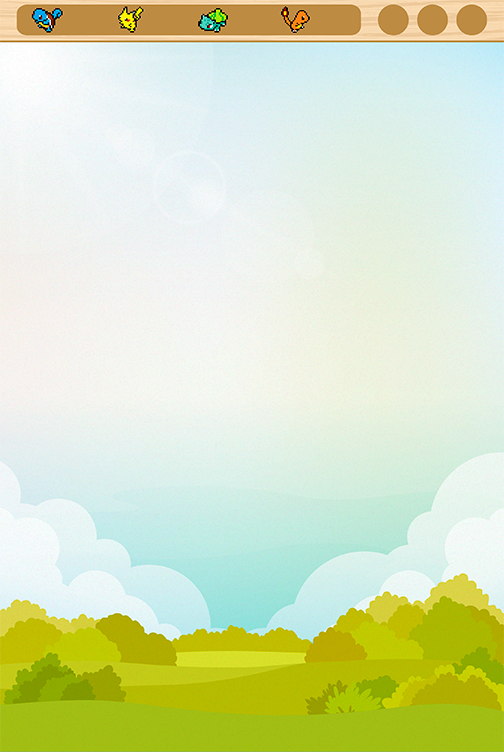
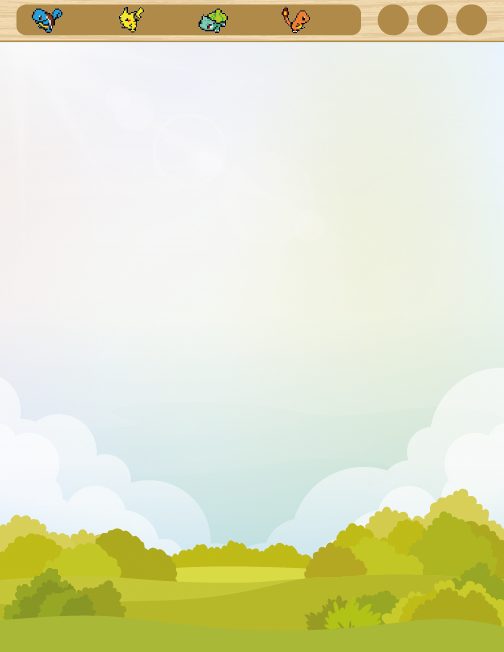
bug fixing, asset update

Changed region(s): [[0.0, 0.5521, 1.0, 1.0], [0.0, 0.0, 1.0, 0.1534], [0.0298, 0.6135, 0.1786, 0.6748]]

diff --git a/rafaelima/Poke Breakout/index.html b/rafaelima/Poke Breakout/index.html
@@ -16,7 +16,7 @@
     </style>
 </head>
 <body onload="init()" style="text-align: center; border-width: 0">
-    <canvas id="canvas" width="504" height="752">
+    <canvas id="canvas" width="504" height="652">
 	Navegador não compatível com HTML5 Canvas
 	</canvas>
     <script type="text/javascript">
@@ -59,9 +59,12 @@
             document.addEventListener('keyup', keyUp, false); // adiciona evento para keyup
             document.addEventListener('keydown', keyDown, false); // adiciona evento para keydown
 
-            musicaBackground = document.getElementById("bgsound"); //recupera o objeto da musica d fundo
-            somBola = document.getElementById("audioPokeball"); //recupera o objeto do som da pokebola
-            somGameOver = document.getElementById("audioGameOver"); //recupera o objeto do som de Game Over
+            //recupera componentes de som do documento
+			musicaBackground = document.getElementById("bgsound"); 
+            somBola = document.getElementById("audioPokeball"); 
+            somGameOver = document.getElementById("audioGameOver"); 
+			
+			
 
             beginGame(); //Reseta a tela e os dados
 
@@ -94,8 +97,8 @@
             musicaBackground.volume = 0.3; //30% da musica de Background            
             tocaMusica = false; //Musica ainda não esta tocando
             ativadorMusica(); //liga||desliga música
-
-            //carrega imagens
+			
+			//carrega imagens
             gameOverScreen = new Image();
             gameOverScreen.src = "img/gameover.png";
             barraImg = new Image();
@@ -143,23 +146,26 @@
                     verificaColisaoParede();
                     movimentaJogador();
                     movimentaBola();
-                    redesenhaTela();
+					redesenhaTela();
                     verificaVitoria();
                 } else {
-                    redesenhaTela();
+					redesenhaTela();
                     gameOver();
                 }
             } else {
-                redesenhaTela();
+				redesenhaTela();
                 verificaVitoria();
             }
+			
         }
 
         ///////////////////////////////////////////////////////////////////////funções dentro do game loop
         //Verifica se houve colisao na tijolo
         function verificaColisaoParede() { //todas as possiveis colisoes do perímetro e centro da bola com a parede
             if ((bola.posY - bola.raio) <= (alturaBloco * paredeLinhas + alturaParede)) { //se o topo da bola chegar no fundo da parede
+				var colidiu = false;
                 for (var j = -1; j <= 1; j++) { //indices que controlam qual 'extremidade' da bola esta tocando a parede
+					if(!colidiu)
                     for (var i = -1; i <= 1; i++) {//em relação ao centro da bola
                         x = Math.floor((bola.posX + (i * bola.raio)) / larguraBloco); //x do ponto
                         y = Math.floor((bola.posY + (j * bola.raio) - alturaParede) / alturaBloco); //y do ponto
@@ -171,6 +177,8 @@
                                 totalBloco--;
                                 numPokemon[y][x] = -1;
                                 reacaoColisao(i, j);
+								colidiu = true;
+								break;
                             }
                     }
                 }
@@ -345,7 +353,7 @@
                 context.font = '90px "pokeNumber"'; //tamanho da fonte e tipo da fonte para desenhar o texto
                 var pontuaTotal = (totalPontuacao < 10 ? "0" + totalPontuacao : totalPontuacao); // Acrescenta 0 na frente dos numeros menores que 10
                 context.fillText(pontuaTotal, canvas.width / 2 - 55, canvas.height / 2 - 40); //Desenha a pontuacao
-                desenhaGif();
+                //desenhaGif();
             }
         }
 
@@ -355,7 +363,7 @@
             context.font = '90px "pokeNumber"'; //tamanho da fonte e tipo da fonte para desenhar o texto
             context.fillStyle = "#1c30bd"; //cor da fonte
             var pontuaTexto = (totalPontuacao < 10 ? "0" + totalPontuacao : totalPontuacao); // Acrescenta 0 na frente dos numeros menores que 10
-            context.fillText(pontuaTexto, canvas.width / 2 - 55, canvas.height / 2 + 10); //Desenha a pontuacao
+            context.fillText(pontuaTexto, canvas.width / 2 - 55, canvas.height / 2 + 50); //Desenha a pontuacao
             desenhaGif();
         }
 
